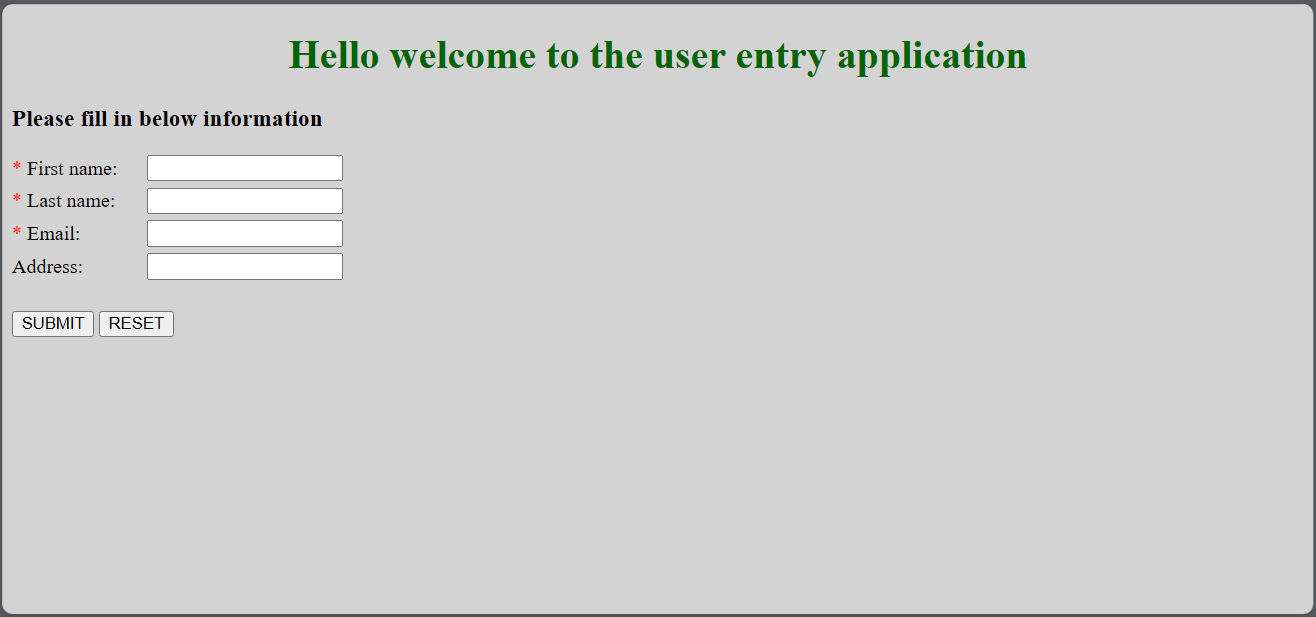
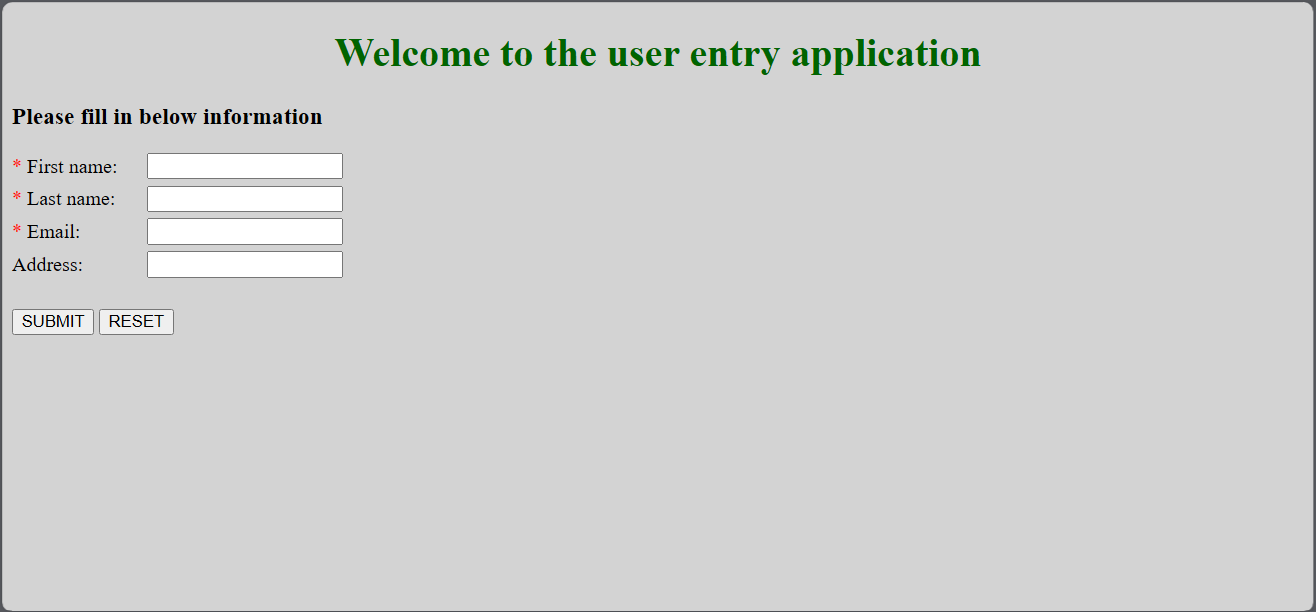
Application page header updated

diff --git a/src/main/resources/static/webpage/demo.html b/src/main/resources/static/webpage/demo.html
@@ -6,7 +6,7 @@
     <script type="text/javascript" src="js/rest-controller.js"></script>
   </head>
   <body>
-    <h1>Hello welcome to the user entry application</h1>
+    <h1>Welcome to the user entry application</h1>
     <h3>Please fill in below information</h3>
     <div class="user-form">
       <div>
